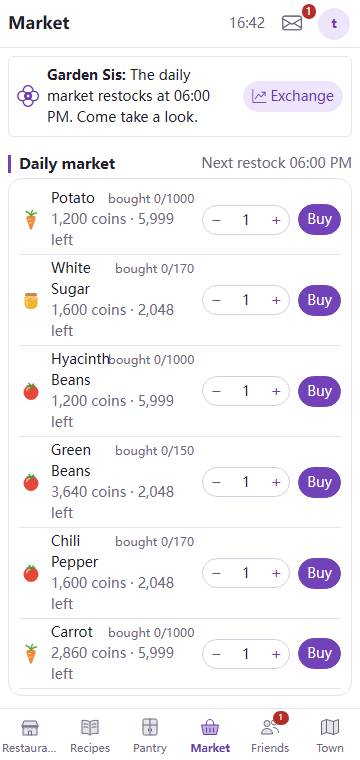
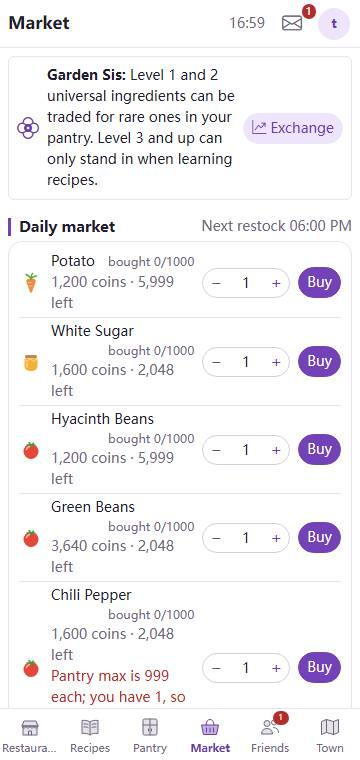
fix: P4 终审——菜场外文限购不再压在名字上、橱柜步进器上限跟着持有、读取失败不再一直显示骨架行

diff --git a/apps/web/src/views/MarketView.vue b/apps/web/src/views/MarketView.vue
@@ -1,4 +1,5 @@
 <script setup lang="ts">
+import DtEmpty from '../components/DtEmpty.vue';
 import DtSkeleton from '../components/DtSkeleton.vue';
 import DtStepper from '../components/DtStepper.vue';
 import FoodArt from '../components/FoodArt.vue';
@@ -27,6 +28,8 @@ const data = ref<MarketDto | null>(null);
 const qty = reactive<Record<number, number>>({});
 const picks = ref<number[]>([]);
 const busy = ref(false);
+/** 读取失败时不再显示骨架行（终审 I4） */
+const failed = ref(false);
 const guessOpen = ref(false);
 
 const time = timeHM;
@@ -109,7 +112,12 @@ function togglePick(id: number) {
   else if (data.value && picks.value.length < data.value.guess.maxPick) picks.value.push(id);
 }
 const joinGuess = () => run(() => endpoints.marketGuess([...picks.value]), t.value.market.guessFailed);
-onMounted(() => load().catch((e) => toast.push(errorMessage(e, t.value.market.loadFailed), 'danger')));
+onMounted(() =>
+  load().catch((e) => {
+    failed.value = true;
+    toast.push(errorMessage(e, t.value.market.loadFailed), 'danger');
+  }),
+);
 </script>
 
 <template>
@@ -125,7 +133,8 @@ onMounted(() => load().catch((e) => toast.push(errorMessage(e, t.value.market.lo
     </RouterLink>
   </GardenSis>
   <HiphopCard :place="1" @changed="load" />
-  <DtSkeleton v-if="!data" :rows="6" data-testid="market-skeleton" />
+  <DtEmpty v-if="!data && failed" :title="t.market.loadFailed" data-testid="market-failed" />
+  <DtSkeleton v-else-if="!data" :rows="6" data-testid="market-skeleton" />
   <template v-else>
     <section v-for="s in sections" :key="s.key" class="mb-3">
       <!-- 间距放在外层：.dt-section 自带上边距，放在 flex 行里会把标题挤低半行（问题记录 192） -->
@@ -160,8 +169,9 @@ onMounted(() => load().catch((e) => toast.push(errorMessage(e, t.value.market.lo
         <div v-for="it in data[s.key]" :key="it.id" class="dt-item small" :data-testid="`item-${it.id}`">
           <FoodArt :id="it.foodsId" :size="24" />
           <div class="dt-item-main">
-            <div class="d-flex align-items-baseline gap-1">
-              <span class="dt-shrink">{{ catalog.foodName(it.foodsId) }}</span>
+            <!-- 放不下时限购换到下一行（终审 I1：法文名字收窄成 0，限购压在名字上） -->
+            <div class="dt-name-row">
+              <span class="dt-name-row-name">{{ catalog.foodName(it.foodsId) }}</span>
               <span v-if="it.hot" class="badge bg-danger">{{ t.market.hot }}</span>
               <!-- 限购写在名字这一行右边，价格行才放得下一行（界面改版 P4） -->
               <span

diff --git a/apps/web/src/views/CupboardView.vue b/apps/web/src/views/CupboardView.vue
@@ -89,10 +89,14 @@ const exchangeMax = computed(() => Math.floor(Math.min(100, pickedItem.value?.nu
 const exchangeN = computed(() =>
   Math.max(2, Math.min(Math.floor((num.value || 2) / 2) * 2, exchangeMax.value)),
 );
+/** 步进器上限：分解、合成、兑换里最多的那个，跟着持有走（终审 I2：原来固定 100，按钮上的数不跟着变） */
+const numMax = computed(() => Math.max(1, decomposeMax.value, exchangeMax.value));
 const composeN = computed(() =>
   Math.max(2, Math.min(Math.floor((num.value || 2) / 2) * 2, composeMax.value)),
 );
 
+/** 读取失败时不再显示骨架行（终审 I4） */
+const failed = ref(false);
 async function load() {
   data.value = await endpoints.cupboard();
 }
@@ -142,14 +146,22 @@ function handle(way: 'compose' | 'decompose') {
 onMounted(() =>
   load()
     .then(() => (tab.value === 'fridge' ? loadFridge() : undefined))
-    .catch((e) => toast.push(errorMessage(e, t.value.cupboard.loadFailed), 'danger')),
+    .catch((e) => {
+      if (!data.value) failed.value = true;
+      toast.push(errorMessage(e, t.value.cupboard.loadFailed), 'danger');
+    }),
 );
 </script>
 
 <template>
   <DtTabs v-model="tab" :tabs="tabItems" />
 
-  <DtSkeleton v-if="tab === 'cupboard' && !data" :rows="5" data-testid="cupboard-skeleton" />
+  <DtEmpty
+    v-if="tab === 'cupboard' && !data && failed"
+    :title="t.cupboard.loadFailed"
+    data-testid="cupboard-failed"
+  />
+  <DtSkeleton v-else-if="tab === 'cupboard' && !data" :rows="5" data-testid="cupboard-skeleton" />
   <!-- 橱柜空着：写去哪里买（界面改版 P4） -->
   <DtEmpty
     v-else-if="tab === 'cupboard' && data && data.items.length === 0"
@@ -223,7 +235,7 @@ onMounted(() =>
     <div v-if="pickedItem" class="dt-card mt-2 small" data-testid="picked-card">
       <div class="d-flex align-items-center gap-2 flex-wrap">
         <b>{{ catalog.foodName(pickedItem.foodsId) }}</b>
-        <DtStepper v-model="num" :min="1" :max="100" />
+        <DtStepper v-model="num" :min="1" :max="numMax" />
         <button
           class="btn btn-sm btn-outline-primary"
           data-testid="decompose"

diff --git a/apps/web/src/views/CupboardView.test.ts b/apps/web/src/views/CupboardView.test.ts
@@ -295,6 +295,21 @@ describe('CupboardView', () => {
     expect(w.get('input[type="number"]').element.closest('.dt-stepper')).not.toBeNull();
   });
 
+  it('步进器上限跟着持有：持有 4 个时最多 4，不是固定 100（终审 I2）', async () => {
+    const w = mount(CupboardView);
+    await flushPromises();
+    await w.get('[data-testid="pick-302"]').trigger('click');
+    expect(w.get('[data-testid="picked-card"] input[type="number"]').attributes('max')).toBe('4');
+  });
+
+  it('读取失败时写读取失败，不一直显示骨架行（终审 I4）', async () => {
+    vi.mocked(endpoints.cupboard).mockRejectedValue(new Error('x'));
+    const w = mount(CupboardView);
+    await flushPromises();
+    expect(w.find('[data-testid="cupboard-skeleton"]').exists()).toBe(false);
+    expect(w.get('[data-testid="cupboard-failed"]').text()).toContain('读取橱柜失败');
+  });
+
   it('橱柜空时是空状态，带去菜场的链接；没读回来时是骨架行（界面改版 P4）', async () => {
     vi.mocked(endpoints.cupboard).mockReturnValue(new Promise(() => undefined));
     expect(mount(CupboardView).find('[data-testid="cupboard-skeleton"]').exists()).toBe(true);

diff --git a/apps/web/src/views/StoreView.vue b/apps/web/src/views/StoreView.vue
@@ -67,6 +67,8 @@ const recordTime = (at: string) =>
       })
     : gameTimeOfDay(at);
 
+/** 读取失败时不再显示骨架行（终审 I4） */
+const failed = ref(false);
 async function load() {
   data.value = await endpoints.store(type.value);
   void catalog.refreshIfMissing(data.value.items.map((it) => it.goodsId));
@@ -138,12 +140,18 @@ watch(
   },
   { immediate: true },
 );
-onMounted(() => load().catch((e) => toast.push(errorMessage(e, t.value.store.loadFailed), 'danger')));
+onMounted(() =>
+  load().catch((e) => {
+    failed.value = true;
+    toast.push(errorMessage(e, t.value.store.loadFailed), 'danger');
+  }),
+);
 </script>
 
 <template>
   <DtTabs v-model="tab" :tabs="tabItems" />
-  <DtSkeleton v-if="tab === 'items' && !data" :rows="5" data-testid="store-skeleton" />
+  <DtEmpty v-if="tab === 'items' && !data && failed" :title="t.store.loadFailed" data-testid="store-failed" />
+  <DtSkeleton v-else-if="tab === 'items' && !data" :rows="5" data-testid="store-skeleton" />
   <template v-if="tab === 'items' && data">
     <div class="d-flex align-items-center mb-2 small">
       <select v-model="type" class="form-select form-select-sm w-auto">

diff --git a/apps/web/src/views/MarketView.test.ts b/apps/web/src/views/MarketView.test.ts
@@ -259,4 +259,20 @@ describe('MarketView', () => {
     expect(row.get('[data-testid="limit-11"]').text()).toMatch(/^限购 \d+\/\d+$/);
     expect(row.get('[data-testid="price-11"]').text()).not.toContain('限购');
   });
+
+  it('名字那一行放不下时限购换到下一行，不压在名字上：名字不收窄成 0（终审 I1：法文 360px 重叠）', async () => {
+    const w = mount(MarketView);
+    await flushPromises();
+    const line = w.get('[data-testid="limit-11"]').element.parentElement!;
+    expect(line.classList.contains('dt-name-row')).toBe(true);
+    expect(line.querySelector('.dt-shrink')).toBeNull();
+  });
+
+  it('读取失败时写读取失败，不一直显示骨架行（终审 I4）', async () => {
+    vi.mocked(endpoints.market).mockRejectedValue(new Error('x'));
+    const w = mount(MarketView);
+    await flushPromises();
+    expect(w.find('[data-testid="market-skeleton"]').exists()).toBe(false);
+    expect(w.get('[data-testid="market-failed"]').text()).toContain('读取菜场失败');
+  });
 });

diff --git a/apps/web/src/styles/mainCss.test.ts b/apps/web/src/styles/mainCss.test.ts
@@ -32,6 +32,13 @@ describe('main.css', () => {
     expect(rule).toContain('color: rgba(var(--dt-primary-ink-rgb), var(--bs-text-opacity, 1)) !important');
   });
 
+  it('名字行放不下时右边的小字换到下一行，名字按字折行（终审 I1：菜场法文限购压在名字上）', () => {
+    const at = css.indexOf('.dt-name-row {');
+    expect(at).toBeGreaterThan(-1);
+    const rule = css.slice(at, css.indexOf('}', at));
+    expect(rule).toContain('flex-wrap: wrap');
+  });
+
   it('同一个类不在顶层定义两次，免得后写的悄悄覆盖前面的（问题记录 212：.dt-chip 撞名）', () => {
     const seen = new Map<string, number>();
     for (const s of topLevelSelectors(css)) seen.set(s, (seen.get(s) ?? 0) + 1);

diff --git a/apps/web/src/views/StoreView.test.ts b/apps/web/src/views/StoreView.test.ts
@@ -390,6 +390,14 @@ describe('仓库套用新控件（界面改版 P4）', () => {
     expect(w.find('[data-testid="store-skeleton"]').exists()).toBe(true);
   });
 
+  it('读取失败时写读取失败，不一直显示骨架行（终审 I4）', async () => {
+    vi.mocked(endpoints.store).mockRejectedValue(new Error('x'));
+    const w = mount(StoreView);
+    await flushPromises();
+    expect(w.find('[data-testid="store-skeleton"]').exists()).toBe(false);
+    expect(w.get('[data-testid="store-failed"]').text()).toContain('读取仓库失败');
+  });
+
   it('卖出走确认面板', async () => {
     vi.mocked(endpoints.store).mockResolvedValue({
       ...structuredClone(data),

diff --git a/apps/web/src/styles/main.css b/apps/web/src/styles/main.css
@@ -1659,3 +1659,13 @@ details.dt-card > summary {
 .dt-mc-row:last-child {
   border-bottom: 0;
 }
+/* 名字一行：名字按字折行，右边的小字（限购）放不下时换到下一行，不压在名字上（终审 I1） */
+.dt-name-row {
+  display: flex;
+  flex-wrap: wrap;
+  align-items: baseline;
+  column-gap: 4px;
+}
+.dt-name-row-name {
+  overflow-wrap: anywhere;
+}

diff --git a/docs/design/改版-P4/README.md b/docs/design/改版-P4/README.md
@@ -7,6 +7,7 @@
 - 所有页面横向溢出都是 0。
 - 开发环境的 API 用的还是旧配置（目录里没有食材类别），截图时按 foods.json 把类别补进目录接口的返回，才看得到食材图；正式环境由新配置直接带上。
 - 菜场改前是“0”：原来的行不是 .dt-item，不算；改后日常 6 行 + 特价 2 行，和改前首屏露出的一样多。
+- 菜场法文、英文、西文是终审修好后重截的：第一轮法文名字收窄成 0、限购压在名字上，改成放不下时限购换到下一行；外文每行多一行高（法文、西文首屏 4 行，英文 5 行）。西文：[改后](./market-es-360-light-after.jpg)。
 - 食谱详情改前是表格行（8），改后是品级行（7），首屏多了一行学习按钮的高度。
 - 特色菜、冰箱、道具流水这个测试号是空的，改后显示空状态。
 - 橱柜选中一格后的卡片：[浅色](./picked-zh-CN-390-light-after.jpg)、[深色](./picked-zh-CN-390-dark-after.jpg)。
@@ -33,5 +34,5 @@
 | 特色菜 | 0 → 0 | ![](./mc-fr-360-light-before.jpg) | ![](./mc-fr-360-light-after.jpg) | 0 → 0 | ![](./mc-en-360-light-before.jpg) | ![](./mc-en-360-light-after.jpg) |
 | 食谱详情 | 8 → 7 | ![](./cbinfo-fr-360-light-before.jpg) | ![](./cbinfo-fr-360-light-after.jpg) | 8 → 7 | ![](./cbinfo-en-360-light-before.jpg) | ![](./cbinfo-en-360-light-after.jpg) |
 | 橱柜 · 常温 | 11 → 11 | ![](./cupboard-fr-360-light-before.jpg) | ![](./cupboard-fr-360-light-after.jpg) | 11 → 11 | ![](./cupboard-en-360-light-before.jpg) | ![](./cupboard-en-360-light-after.jpg) |
-| 菜场 | 0 → 5 | ![](./market-fr-360-light-before.jpg) | ![](./market-fr-360-light-after.jpg) | 0 → 6 | ![](./market-en-360-light-before.jpg) | ![](./market-en-360-light-after.jpg) |
+| 菜场 | 0 → 4 | ![](./market-fr-360-light-before.jpg) | ![](./market-fr-360-light-after.jpg) | 0 → 5 | ![](./market-en-360-light-before.jpg) | ![](./market-en-360-light-after.jpg) |
 | 仓库 · 道具 | 4 → 4 | ![](./store-fr-360-light-before.jpg) | ![](./store-fr-360-light-after.jpg) | 4 → 4 | ![](./store-en-360-light-before.jpg) | ![](./store-en-360-light-after.jpg) |

diff --git a/docs/backlog.md b/docs/backlog.md
@@ -397,3 +397,16 @@
 - 步进器注释写“低于下限等失焦再处理”，代码其实打字时就夹了；注释和行为对齐
 - 餐桌格子用了 `aria-pressed`，读屏会读成开关；换成 `aria-current` 或者只用选中样式加说明
 - 首页加头图后首屏少约 57px（略多于一行），是用户定的 72px 头图带来的
+
+## 界面改版 P4 厨房（feat/ui-p4）终审遗留
+
+- 菜场步进器上限没算银币（`canBuy` 只管限购、库存、橱柜单种上限）：钱不够时照样能加，服务端报错；和改版前一样。要做得把银币带进菜场接口
+- 食谱详情品级名一列在法文、西文、英文里被“Médaille d'or”等撑宽，各行食材起点不齐；可以改成 `grid-template-columns: max-content 1fr`
+- 橱柜格子的锁图标是 `aria-hidden`，读屏不知道锁了；加一个 visually-hidden 的“已锁定”
+- 橱柜格子里 `<div class="dt-tile-sub">` 在 `<button>` 里（改版前就有）；换成 `span` 加 `display: block`
+- 菜场、仓库、特色菜行里的步进器没有读屏名字，听到的都是“减少/增加”；给 `DtStepper` 加 `label`（和 P3 那条一起做）
+- 仓库纪念品、道具流水在读取时先闪一下空状态（这两个列表初值是空数组）；可以也给骨架行
+- 食谱列表的翻页在卡片外面，计划写的是卡片底部
+- 好友餐厅的门和 `RestaurantHero` 各写一份（一个 `||` 一个 `??`），都没核对 `CONTENT_ART`；可以抽成 `catalog.doorArt(id)`，和 `foodArt` 一样退回木门（和 P3 那条一起做）
+- `main.css` 第 311、331 行附近留着旧注释，和新注释重复
+- 测试缺口：配置构建报错没断言食材编号；`.dt-tile-grid` 4 列、数量不换行没有样式测试；好友餐厅门的测试用的是木门（和兜底一样，分不出来）；新确认面板只测了取消，确定后发的数量只有旧的 `window.confirm` 兜底测试覆盖
